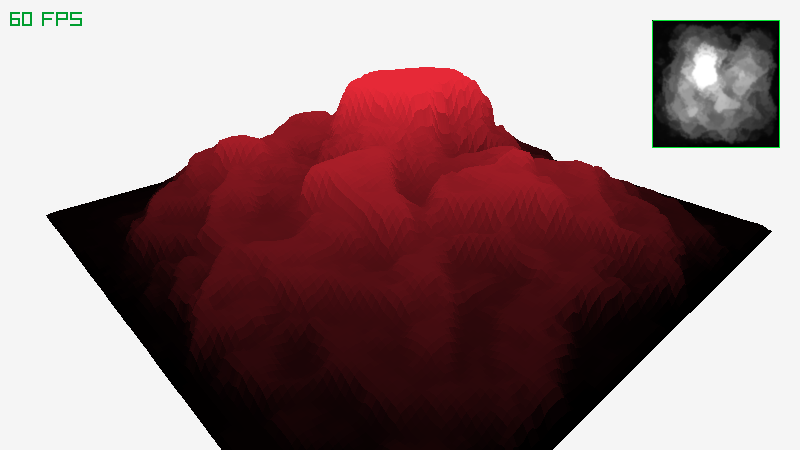
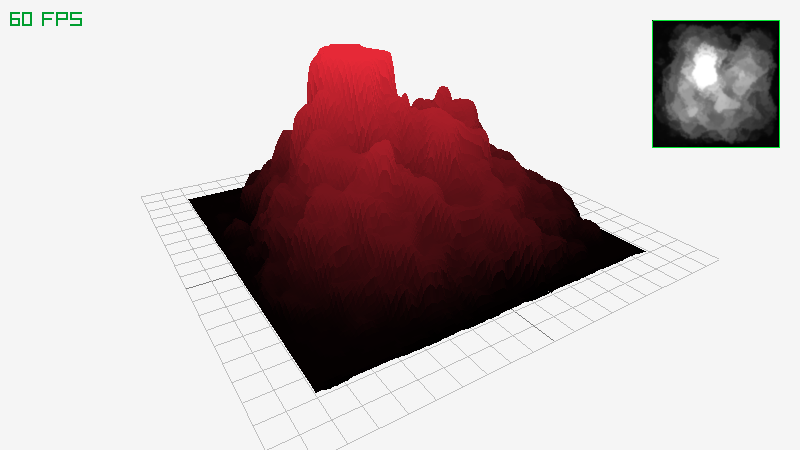
Improved LoadHeightmap()

diff --git a/src/models.c b/src/models.c
@@ -55,7 +55,6 @@ extern unsigned int whiteTexture;
 //----------------------------------------------------------------------------------
 // Module specific Functions Declaration
 //----------------------------------------------------------------------------------
-static float GetHeightValue(Color pixel);
 static Mesh LoadOBJ(const char *fileName);
 
 //----------------------------------------------------------------------------------
@@ -608,17 +607,19 @@ Model LoadModelEx(Mesh data)
 }
 
 // Load a heightmap image as a 3d model
-Model LoadHeightmap(Image heightmap, float maxHeight)
+// NOTE: model map size is defined in generic units
+Model LoadHeightmap(Image heightmap, Vector3 size)
 {
+    #define GRAY_VALUE(c) ((c.r+c.g+c.b)/3)
+    
     Mesh mesh;
 
     int mapX = heightmap.width;
     int mapZ = heightmap.height;
     
-    Color *heightmapPixels = GetImageData(heightmap);
+    Color *pixels = GetImageData(heightmap);
 
     // NOTE: One vertex per pixel
-    // TODO: Consider resolution when generating model data?
     int numTriangles = (mapX-1)*(mapZ-1)*2;    // One quad every four pixels
 
     mesh.vertexCount = numTriangles*3;
@@ -634,7 +635,7 @@ Model LoadHeightmap(Image heightmap, float maxHeight)
 
     int trisCounter = 0;
 
-    float scaleFactor = maxHeight/255;    // TODO: Review scaleFactor calculation
+    Vector3 scaleFactor = { size.x/mapX, size.y/255.0f, size.z/mapZ };
 
     for(int z = 0; z < mapZ-1; z++)
     {
@@ -644,17 +645,17 @@ Model LoadHeightmap(Image heightmap, float maxHeight)
             //----------------------------------------------------------
 
             // one triangle - 3 vertex
-            mesh.vertices[vCounter] = x;
-            mesh.vertices[vCounter + 1] = GetHeightValue(heightmapPixels[x + z*mapX])*scaleFactor;
-            mesh.vertices[vCounter + 2] = z;
+            mesh.vertices[vCounter] = (float)x*scaleFactor.x;
+            mesh.vertices[vCounter + 1] = (float)GRAY_VALUE(pixels[x + z*mapX])*scaleFactor.y;
+            mesh.vertices[vCounter + 2] = (float)z*scaleFactor.z;
 
-            mesh.vertices[vCounter + 3] = x;
-            mesh.vertices[vCounter + 4] = GetHeightValue(heightmapPixels[x + (z+1)*mapX])*scaleFactor;
-            mesh.vertices[vCounter + 5] = z+1;
+            mesh.vertices[vCounter + 3] = (float)x*scaleFactor.x;
+            mesh.vertices[vCounter + 4] = (float)GRAY_VALUE(pixels[x + (z + 1)*mapX])*scaleFactor.y;
+            mesh.vertices[vCounter + 5] = (float)(z + 1)*scaleFactor.z;
 
-            mesh.vertices[vCounter + 6] = x+1;
-            mesh.vertices[vCounter + 7] = GetHeightValue(heightmapPixels[(x+1) + z*mapX])*scaleFactor;
-            mesh.vertices[vCounter + 8] = z;
+            mesh.vertices[vCounter + 6] = (float)(x + 1)*scaleFactor.x;
+            mesh.vertices[vCounter + 7] = (float)GRAY_VALUE(pixels[(x + 1) + z*mapX])*scaleFactor.y;
+            mesh.vertices[vCounter + 8] = (float)z*scaleFactor.z;
 
             // another triangle - 3 vertex
             mesh.vertices[vCounter + 9] = mesh.vertices[vCounter + 6];
@@ -665,21 +666,21 @@ Model LoadHeightmap(Image heightmap, float maxHeight)
             mesh.vertices[vCounter + 13] = mesh.vertices[vCounter + 4];
             mesh.vertices[vCounter + 14] = mesh.vertices[vCounter + 5];
 
-            mesh.vertices[vCounter + 15] = x+1;
-            mesh.vertices[vCounter + 16] = GetHeightValue(heightmapPixels[(x+1) + (z+1)*mapX])*scaleFactor;
-            mesh.vertices[vCounter + 17] = z+1;
+            mesh.vertices[vCounter + 15] = (float)(x + 1)*scaleFactor.x;
+            mesh.vertices[vCounter + 16] = (float)GRAY_VALUE(pixels[(x + 1) + (z + 1)*mapX])*scaleFactor.y;
+            mesh.vertices[vCounter + 17] = (float)(z + 1)*scaleFactor.z;
             vCounter += 18;     // 6 vertex, 18 floats
 
             // Fill texcoords array with data
             //--------------------------------------------------------------
-            mesh.texcoords[tcCounter] = (float)x / (mapX-1);
-            mesh.texcoords[tcCounter + 1] = (float)z / (mapZ-1);
+            mesh.texcoords[tcCounter] = (float)x/(mapX - 1);
+            mesh.texcoords[tcCounter + 1] = (float)z/(mapZ - 1);
 
-            mesh.texcoords[tcCounter + 2] = (float)x / (mapX-1);
-            mesh.texcoords[tcCounter + 3] = (float)(z+1) / (mapZ-1);
+            mesh.texcoords[tcCounter + 2] = (float)x/(mapX - 1);
+            mesh.texcoords[tcCounter + 3] = (float)(z + 1)/(mapZ - 1);
 
-            mesh.texcoords[tcCounter + 4] = (float)(x+1) / (mapX-1);
-            mesh.texcoords[tcCounter + 5] = (float)z / (mapZ-1);
+            mesh.texcoords[tcCounter + 4] = (float)(x + 1)/(mapX - 1);
+            mesh.texcoords[tcCounter + 5] = (float)z/(mapZ - 1);
 
             mesh.texcoords[tcCounter + 6] = mesh.texcoords[tcCounter + 4];
             mesh.texcoords[tcCounter + 7] = mesh.texcoords[tcCounter + 5];
@@ -687,13 +688,12 @@ Model LoadHeightmap(Image heightmap, float maxHeight)
             mesh.texcoords[tcCounter + 8] = mesh.texcoords[tcCounter + 2];
             mesh.texcoords[tcCounter + 9] = mesh.texcoords[tcCounter + 3];
 
-            mesh.texcoords[tcCounter + 10] = (float)(x+1) / (mapX-1);
-            mesh.texcoords[tcCounter + 11] = (float)(z+1) / (mapZ-1);
+            mesh.texcoords[tcCounter + 10] = (float)(x + 1)/(mapX - 1);
+            mesh.texcoords[tcCounter + 11] = (float)(z + 1)/(mapZ - 1);
             tcCounter += 12;    // 6 texcoords, 12 floats
 
             // Fill normals array with data
             //--------------------------------------------------------------
-            // NOTE: Current Model implementation doe not use normals!
             for (int i = 0; i < 18; i += 3)
             {
                 mesh.normals[nCounter + i] = 0.0f;
@@ -709,7 +709,7 @@ Model LoadHeightmap(Image heightmap, float maxHeight)
         }
     }
     
-    free(heightmapPixels);
+    free(pixels);
 
     // Fill color data
     // NOTE: Not used any more... just one plain color defined at DrawModel()
@@ -1687,12 +1687,6 @@ Vector3 ResolveCollisionCubicmap(Image cubicmap, Vector3 mapPosition, Vector3 *p
 //----------------------------------------------------------------------------------
 // Module specific Functions Definition
 //----------------------------------------------------------------------------------
-
-// Get current vertex y altitude (proportional to pixel colors in grayscale)
-static float GetHeightValue(Color pixel)
-{
-    return (((float)pixel.r + (float)pixel.g + (float)pixel.b)/3);
-}
 
 // Load OBJ mesh data
 static Mesh LoadOBJ(const char *fileName)

diff --git a/examples/models_heightmap.c b/examples/models_heightmap.c
@@ -21,13 +21,13 @@ int main()
     InitWindow(screenWidth, screenHeight, "raylib [models] example - heightmap loading and drawing");
 
     // Define our custom camera to look into our 3d world
-    Camera camera = {{ 24.0f, 18.0f, 24.0f }, { 0.0f, 0.0f, 0.0f }, { 0.0f, 1.0f, 0.0f }};
+    Camera camera = {{ 18.0f, 16.0f, 18.0f }, { 0.0f, 0.0f, 0.0f }, { 0.0f, 1.0f, 0.0f }};
 
-    Image image = LoadImage("resources/heightmap.png");     // Load heightmap image (RAM)
-    Texture2D texture = LoadTextureFromImage(image);        // Convert image to texture (VRAM)
-    Model map = LoadHeightmap(image, 32);                   // Load heightmap model
-    SetModelTexture(&map, texture);                         // Bind texture to model
-    Vector3 mapPosition = { -16.0f, 0.0f, -16.0f };         // Set model position (depends on model scaling!)
+    Image image = LoadImage("resources/heightmap.png");         // Load heightmap image (RAM)
+    Texture2D texture = LoadTextureFromImage(image);            // Convert image to texture (VRAM)
+    Model map = LoadHeightmap(image, (Vector3){ 16, 8, 16 });   // Load heightmap model with defined size
+    SetModelTexture(&map, texture);                             // Bind texture to model
+    Vector3 mapPosition = { -8.0f, 0.0f, -8.0f };               // Set model position (depends on model scaling!)
 
     UnloadImage(image);                 // Unload heightmap image from RAM, already uploaded to VRAM
     
@@ -54,7 +54,9 @@ int main()
             Begin3dMode(camera);
 
                 // NOTE: Model is scaled to 1/4 of its original size (128x128 units)
-                DrawModel(map, mapPosition, 1/4.0f, RED);
+                DrawModel(map, mapPosition, 1.0f, RED);
+
+                DrawGrid(20, 1.0f);
 
             End3dMode();
             

diff --git a/src/raylib.h b/src/raylib.h
@@ -759,7 +759,7 @@ void DrawGizmo(Vector3 position);                                               
 Model LoadModel(const char *fileName);                                                             // Load a 3d model (.OBJ)
 Model LoadModelEx(Mesh data);                                                                      // Load a 3d model (from vertex data)
 //Model LoadModelFromRES(const char *rresName, int resId);                                         // TODO: Load a 3d model from rRES file (raylib Resource)
-Model LoadHeightmap(Image heightmap, float maxHeight);                                             // Load a heightmap image as a 3d model
+Model LoadHeightmap(Image heightmap, Vector3 size);                                                // Load a heightmap image as a 3d model
 Model LoadCubicmap(Image cubicmap);                                                                // Load a map image as a 3d model (cubes based)
 void UnloadModel(Model model);                                                                     // Unload 3d model from memory
 void SetModelTexture(Model *model, Texture2D texture);                                             // Link a texture to a model
